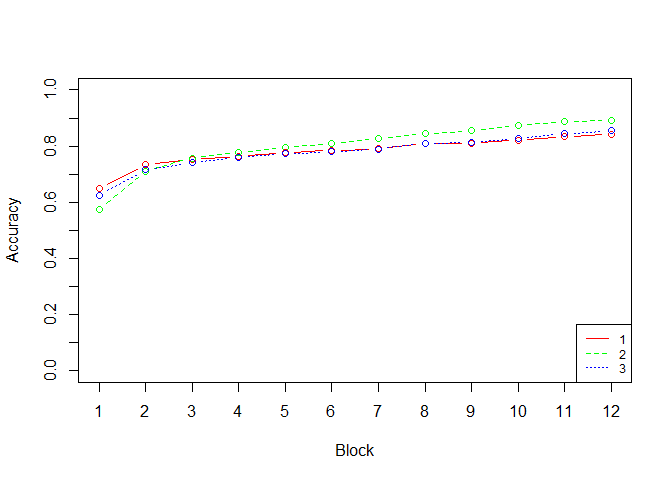
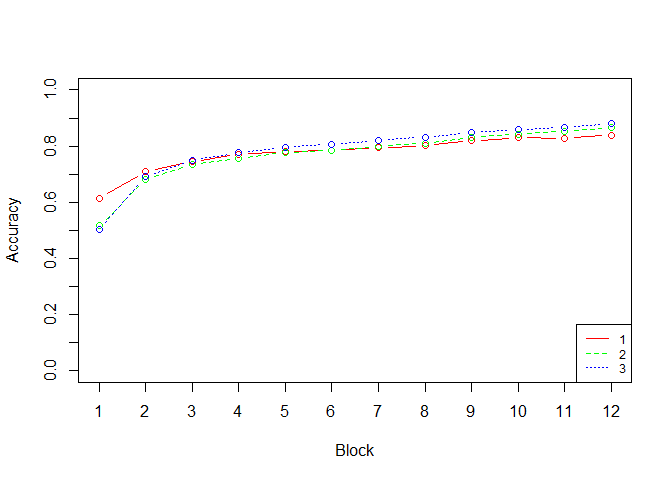
readme edits

diff --git a/README.md b/README.md
@@ -27,7 +27,7 @@ library(catlearn.suppls)
 Set Up and Execution
 --------------------
 
-Then load some data from `get_test_inputs` and assign variables for the properties of the data. The package includes some classic category structures and we'll use a 4D family resemblance + unidimensional rule category structure for this demo.
+Now load some data from `get_test_inputs` and assign variables for the properties of the data. The package includes a set of classic category structures; we'll use a 4-D family resemblance + unidimensional rule category structure for this demo.
 
 ``` r
 # get some sample data
@@ -42,7 +42,7 @@ nfeats <- dim(ins)[2]
 ncats <- length(unique(labs))
 ```
 
-Then set the model parameters. The design pattern for `catlearn` is called a *stateful list processor*. This means we provide the model with a list that contains all of the models hyperparamters and it will return to us a similar list that includes the model's learned parameters (weights).
+Next, setup the model parameters. The design pattern for `catlearn` is called a *stateful list processor*. This means we provide the model with a list that contains all of the model's hyperparamters and it returns a similar list that includes the model's learned parameters (weights).
 
 ``` r
 # construct a state list
@@ -83,12 +83,12 @@ tail(trn_result)
 ```
 
     ##       ctrl trial block example f1 f2 f3 f4 t1 t2     o1     o2
-    ## [91,]    0    91    12       1  1  1  1  1  1 -1 0.9506 0.0494
-    ## [92,]    0    92    12       3  1 -1  1  1  1 -1 0.8011 0.1989
-    ## [93,]    0    93    12       4 -1  1  1  1  1 -1 0.8271 0.1729
-    ## [94,]    0    94    12       5 -1 -1 -1 -1 -1  1 0.0964 0.9036
-    ## [95,]    0    95    12       6 -1 -1  1 -1 -1  1 0.2092 0.7908
-    ## [96,]    0    96    12       7 -1  1 -1 -1 -1  1 0.1880 0.8120
+    ## [91,]    0    91    12       6 -1 -1  1 -1 -1  1 0.1590 0.8410
+    ## [92,]    0    92    12       4 -1  1  1  1  1 -1 0.8389 0.1611
+    ## [93,]    0    93    12       8  1 -1 -1 -1 -1  1 0.1716 0.8284
+    ## [94,]    0    94    12       1  1  1  1  1  1 -1 0.9360 0.0640
+    ## [95,]    0    95    12       2  1  1 -1  1  1 -1 0.8564 0.1436
+    ## [96,]    0    96    12       7 -1  1 -1 -1 -1  1 0.1154 0.8846
 
 ### Evaluating performance
 
@@ -98,8 +98,8 @@ Use `response_probs` to extract the response probabilities for the target catego
 response_probs(tr, diva_model$out, blocks = TRUE)
 ```
 
-    ##  [1] 0.5706806 0.7083523 0.7473335 0.7596062 0.7710120 0.7791213 0.7870588
-    ##  [8] 0.8033194 0.8098715 0.8191506 0.8353003 0.8447566
+    ##  [1] 0.5643582 0.6936080 0.7438706 0.7713369 0.7822231 0.7978918 0.8119429
+    ##  [8] 0.8272332 0.8428917 0.8522970 0.8673757 0.8786071
 
 ### Plotting
 
